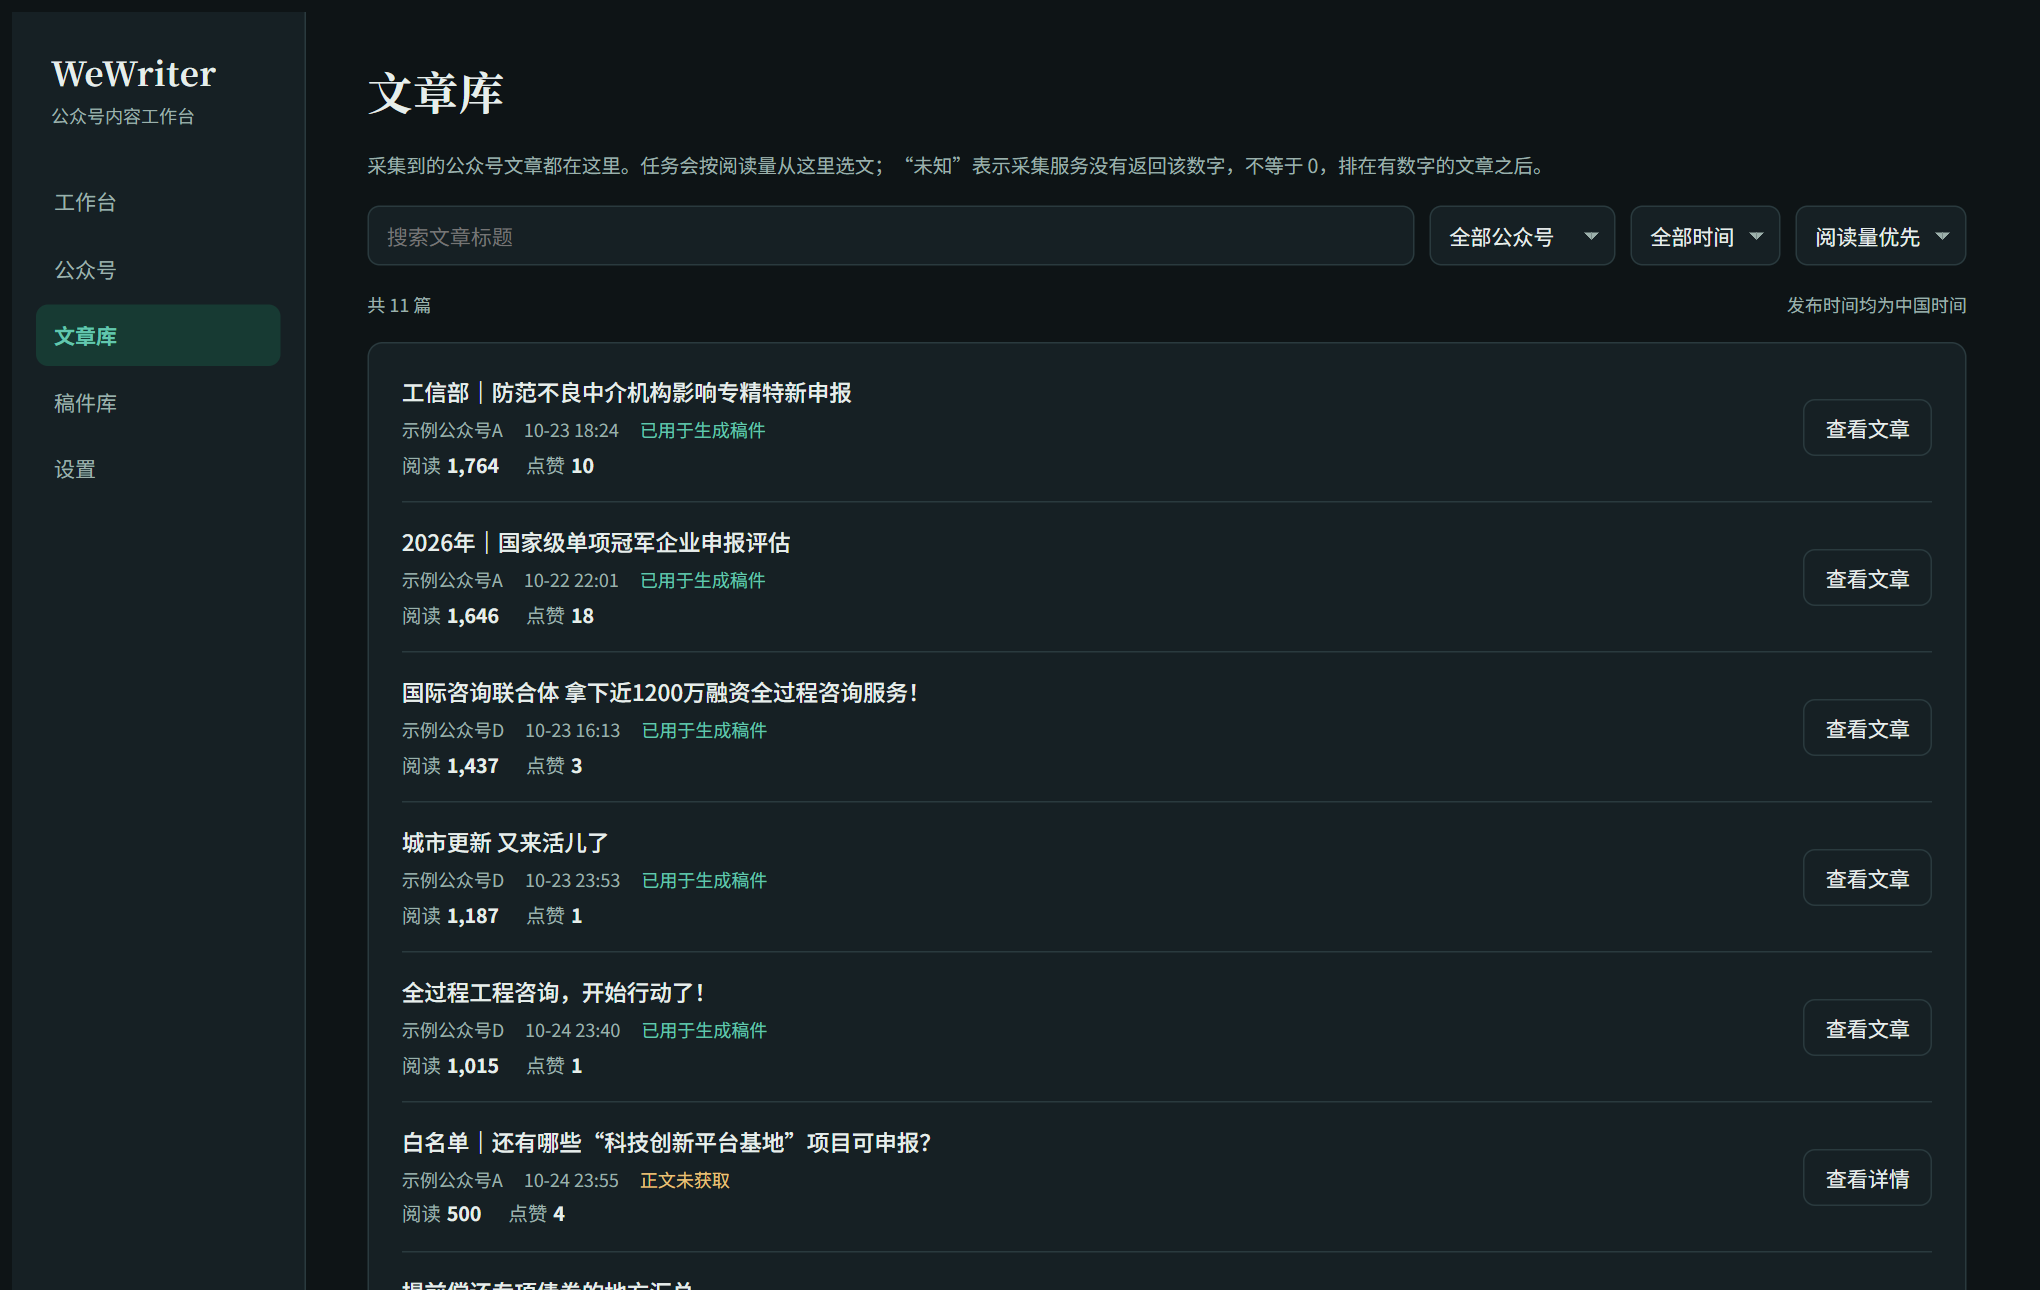
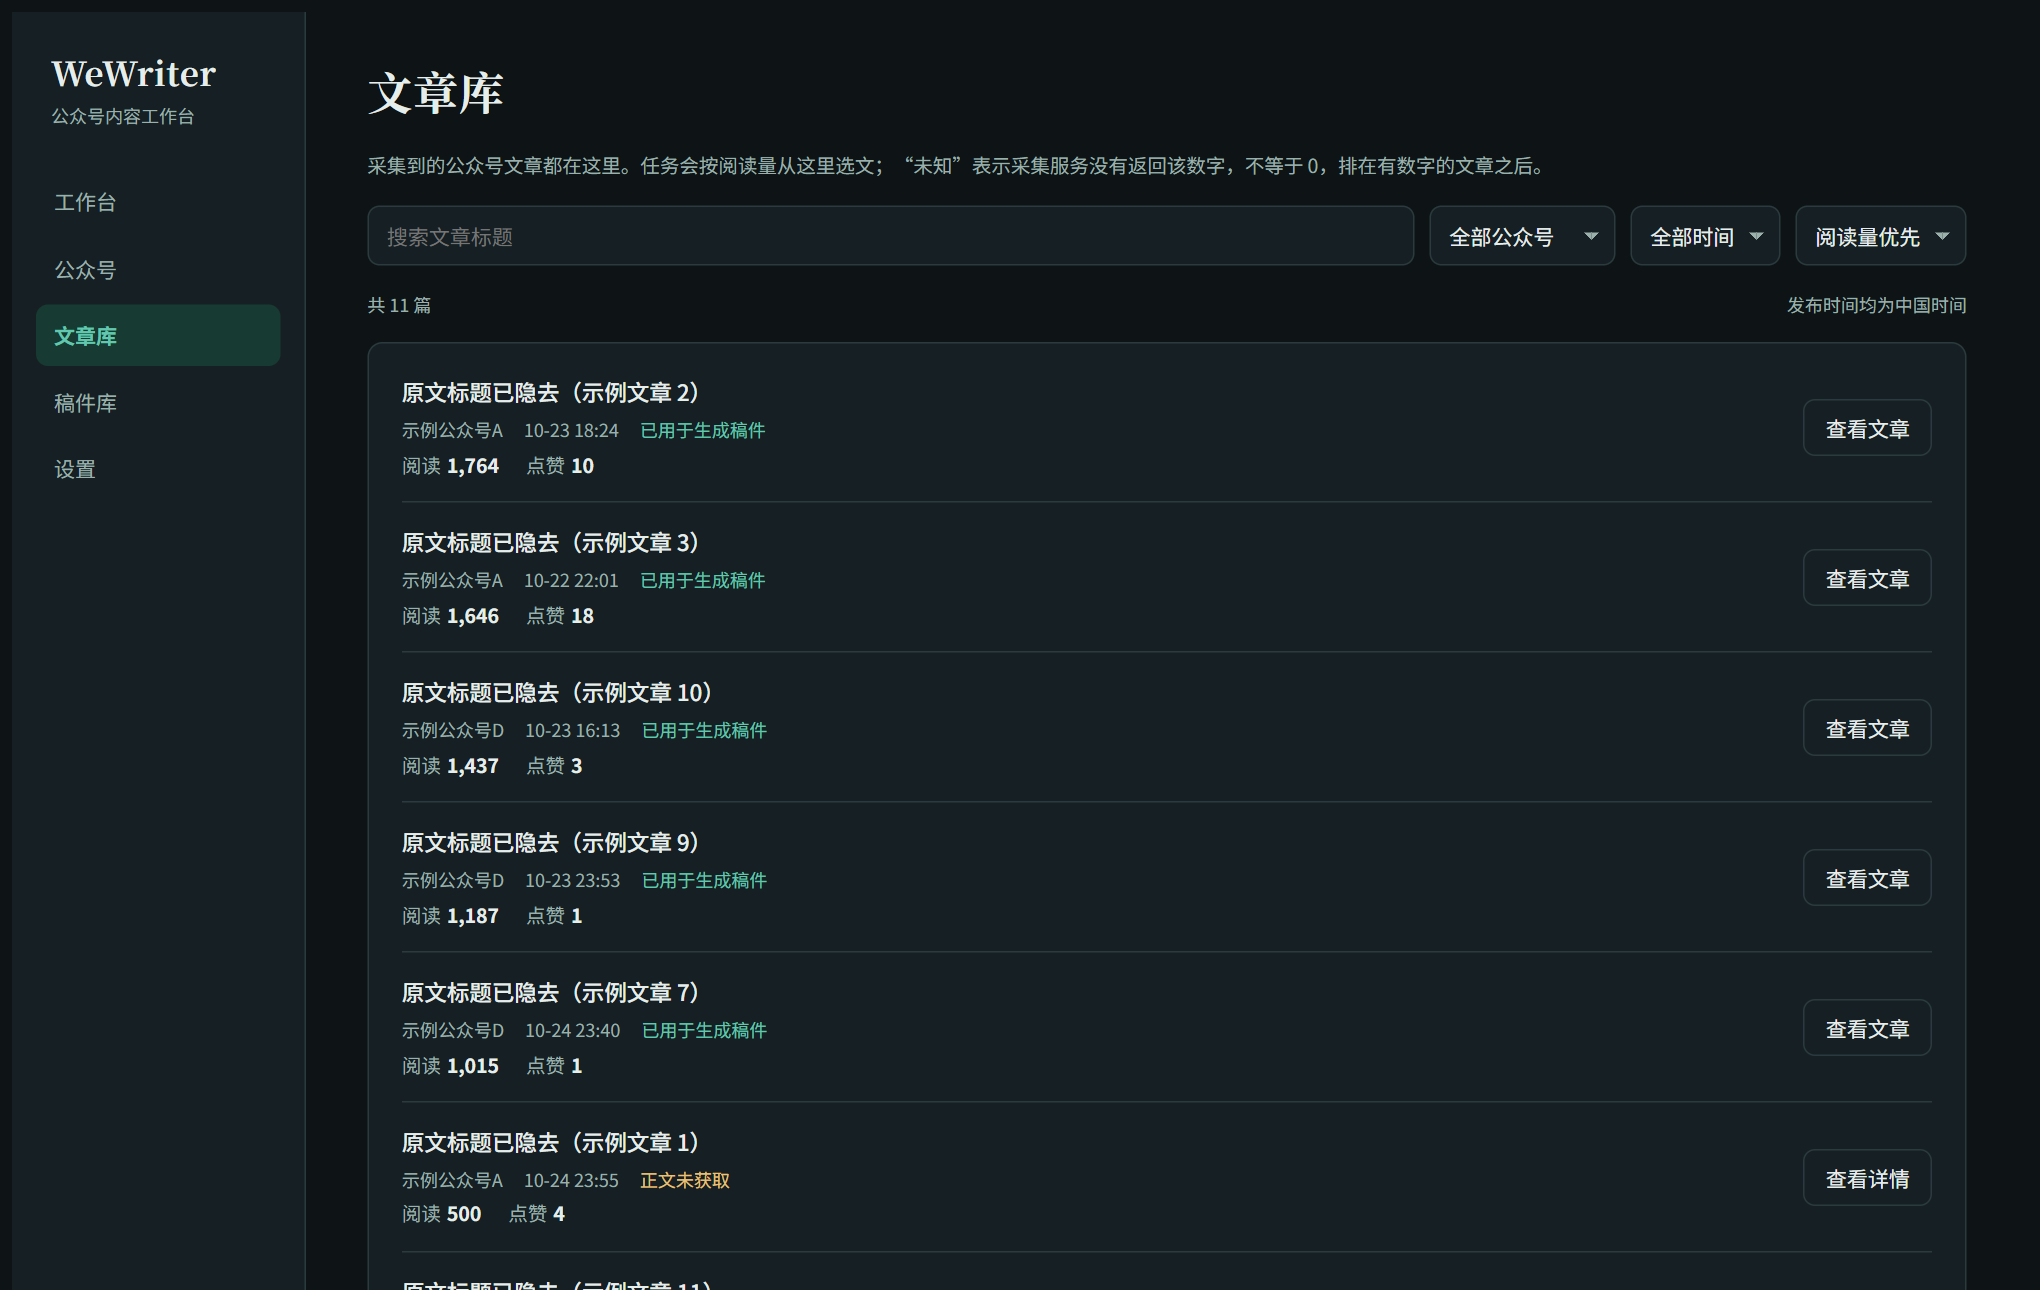
docs: hide source article titles in screenshots

diff --git a/README.md b/README.md
@@ -36,7 +36,7 @@ WeWriter 是为付费客户（企业补贴申报咨询方向）开发的 Windows
 | **稿件阅读与审核** | **设置** |
 | ![稿件](docs/showcase/screenshots/draft-view.png) | ![设置](docs/showcase/screenshots/settings.png) |
 
-截图中的公众号名称已替换为“示例公众号A–E”。
+截图中的公众号名称与原文标题、正文已隐去（显示为“示例公众号A–E”“原文标题已隐去”）；稿件为软件生成内容，原样展示。
 
 ### 生成示例
 
